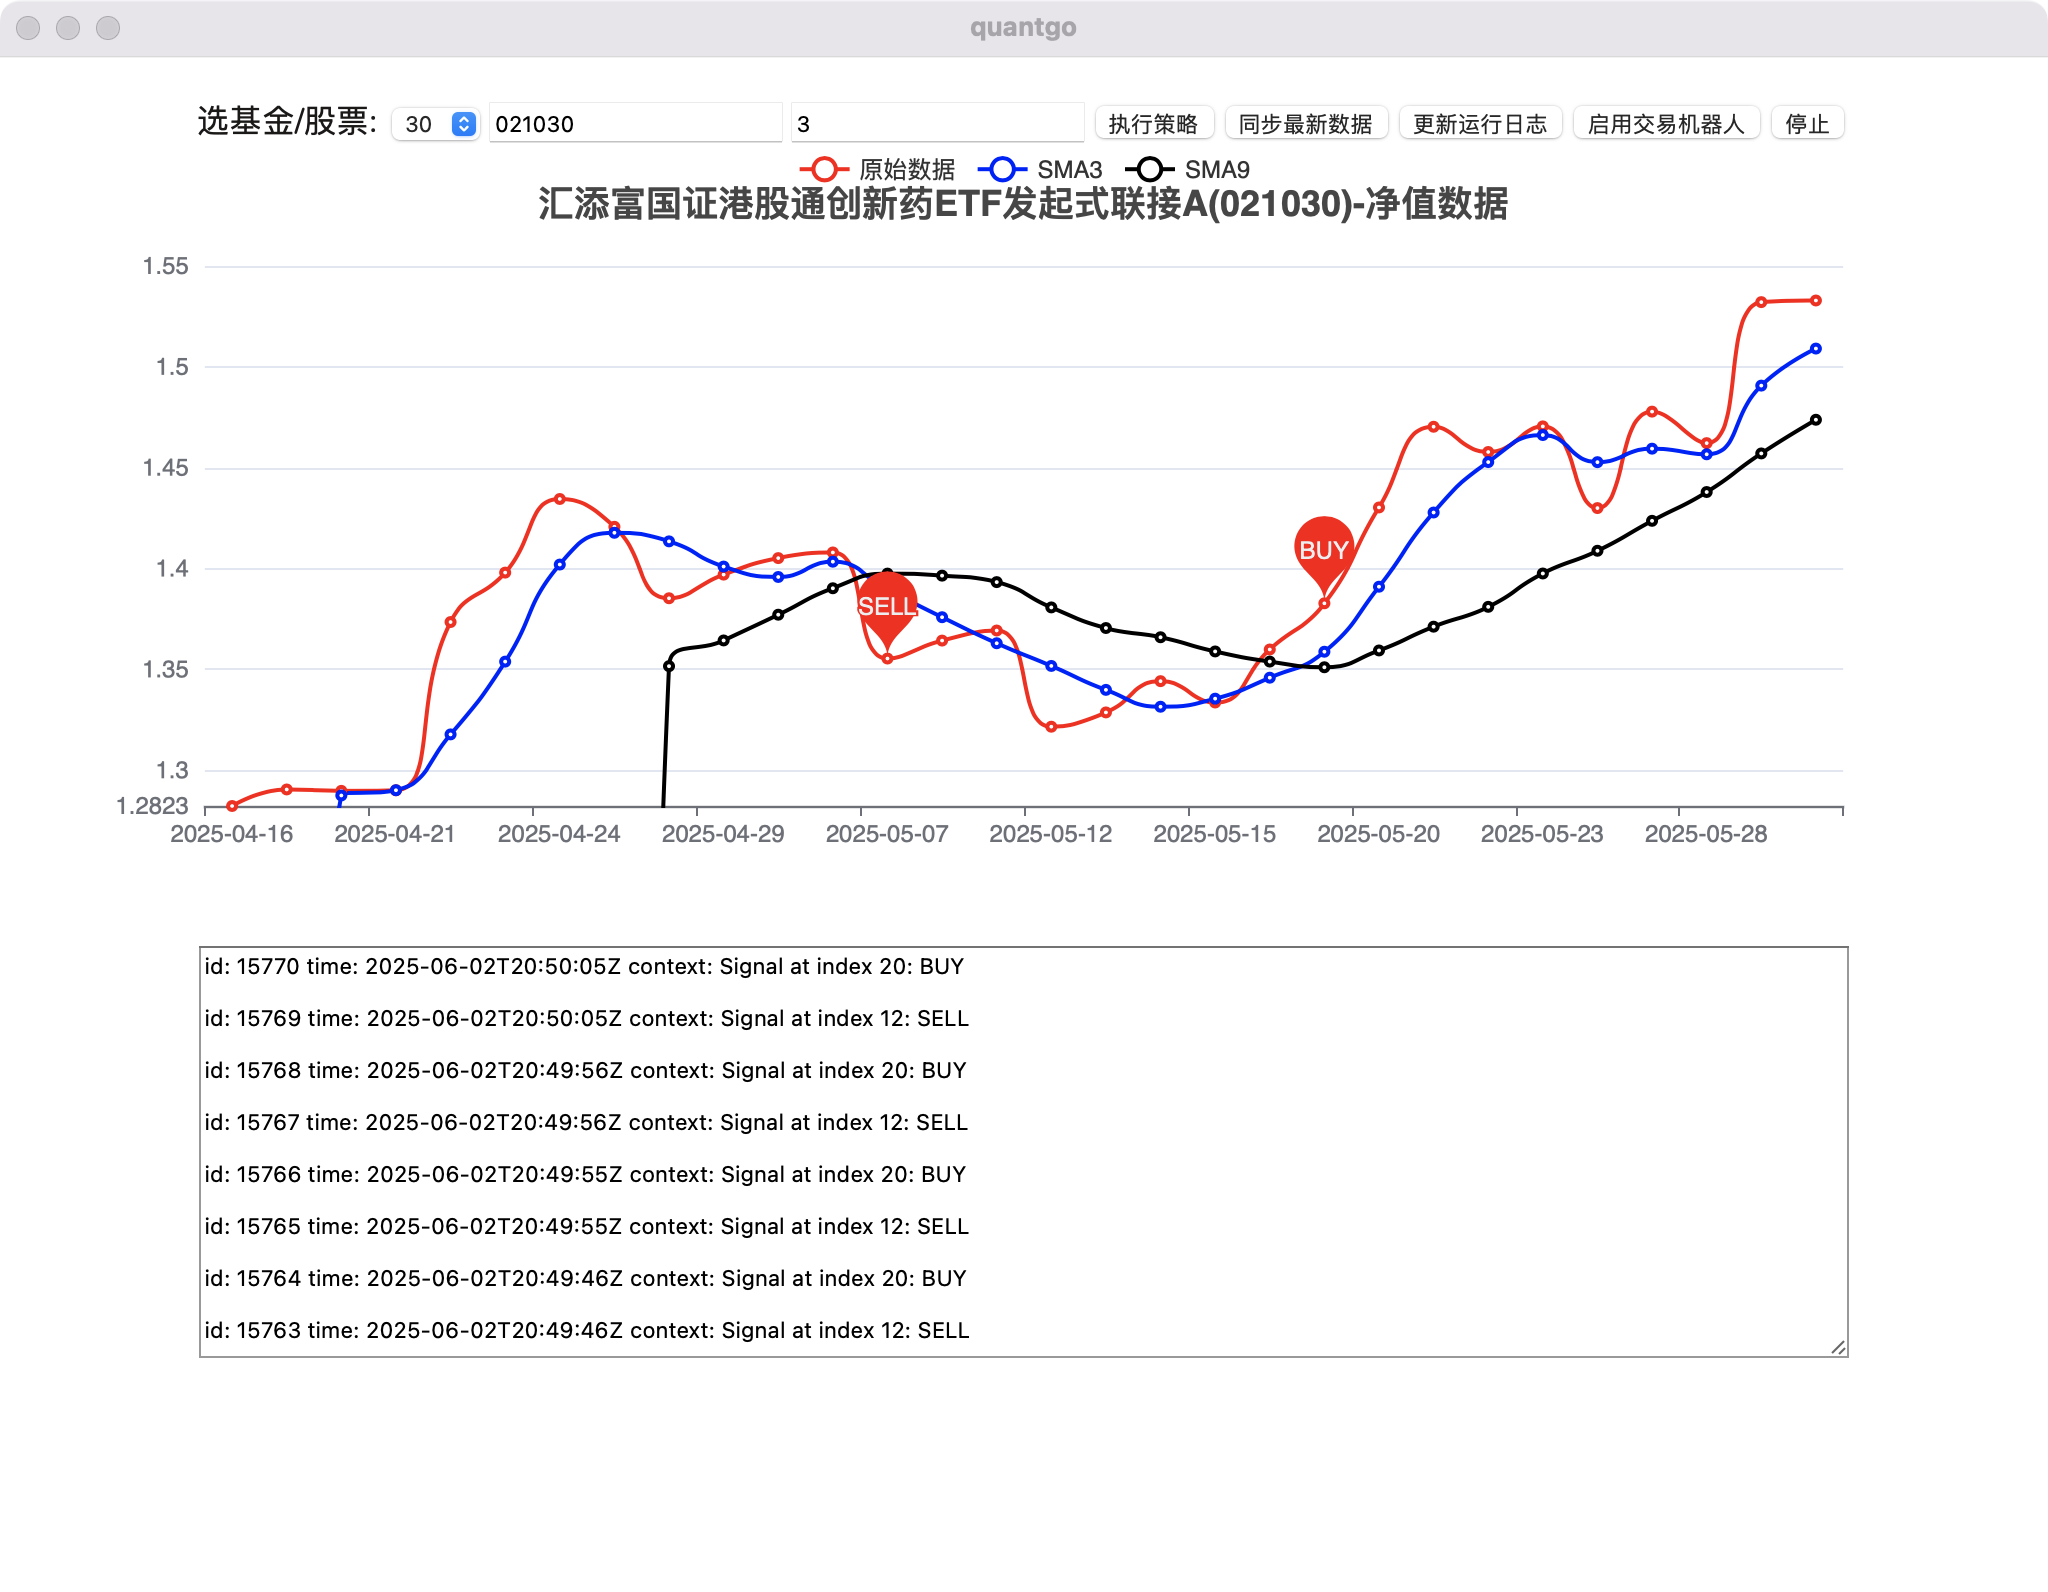
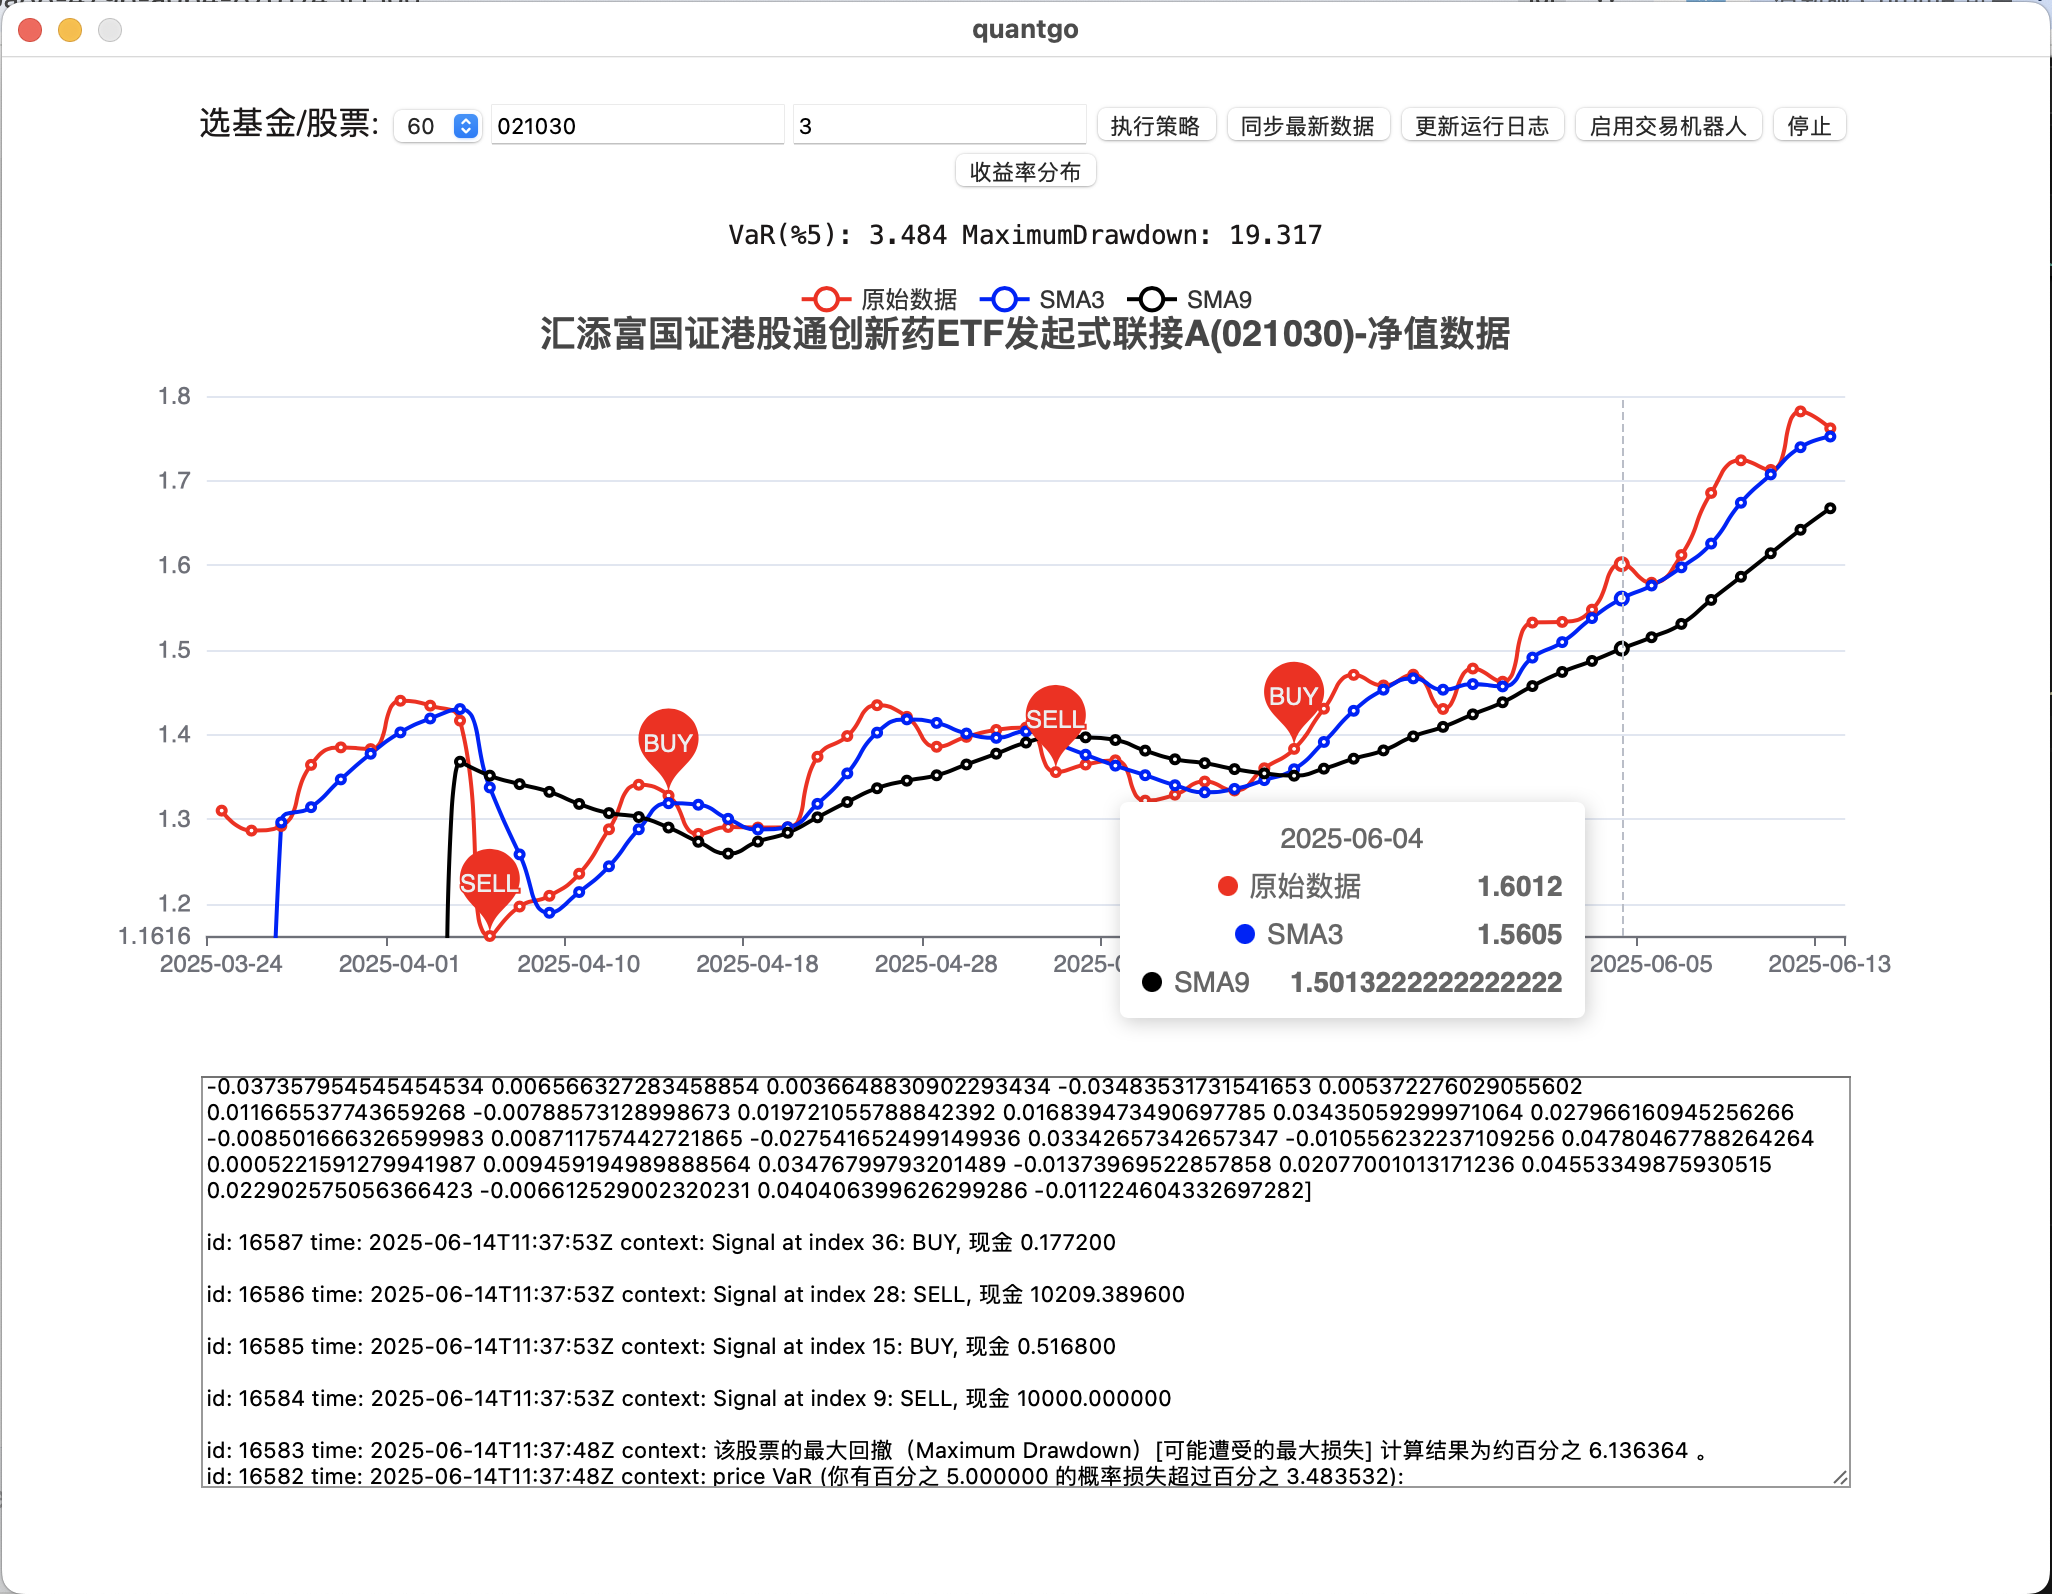
back test

diff --git a/frontend/src/components/QuantGoConsole.vue b/frontend/src/components/QuantGoConsole.vue
@@ -17,6 +17,7 @@
     <button class="btn" @click="stopAgentBot">停止</button>
     <br/>
     <button class="btn" @click="seeReturnRateDistribution">收益率分布</button>
+    <pre id="indicators" style="white-space: pre-line;"></pre>
     <div id="chart" style="width: 100%; height: 400px;"></div>
     <textarea id="consoleLog" placeholder="运行日志" style="width: 80%; height: 200px;"></textarea>
   </div>
@@ -195,9 +196,9 @@ async function updateData() {
   }
 
   var priceVaR = await CalPricesVaR(fundData.map(row => row[0]).reverse(), 0.95)
-
   var priceDrawdown = await MaximumDrawdown(fundData.map(row => row[0]).reverse())
 
+  document.getElementById('indicators').textContent = 'VaR(%5): ' + priceVaR + '  MaximumDrawdown: ' + priceDrawdown;
 
   console.log(SimpleMovingAverage(fundData.map(row => row[0]).reverse(), smaWinValue));
   console.log(fundData.map(row => row[0]).reverse());

diff --git a/app.go b/app.go
@@ -395,6 +395,8 @@ func (a *App) MovingAverageCrossover(prices []float64, shortWindow, longWindow i
 	var signal string
 	fmt.Printf("%5s | %7s | %7s | %7s\n", "Index", "Price", "Short", "Long")
 	fmt.Println("---------------------------------------------")
+	cash := 10000.0
+	position := 0
 
 	for i := 0; i < len(prices); i++ {
 		if i < longWindow {
@@ -411,9 +413,14 @@ func (a *App) MovingAverageCrossover(prices []float64, shortWindow, longWindow i
 		if prevShort <= prevLong && currShort > currLong {
 			signal = "BUY"
 			sig.Label = "BUY"
+			shares := int(cash / prices[i])
+			position = shares
+			cash -= float64(shares) * prices[i] //  买入 shares 份
 		} else if prevShort >= prevLong && currShort < currLong {
 			signal = "SELL"
 			sig.Label = "SELL"
+			cash += float64(position) * prices[i] // 全部卖出
+			position = 0
 		} else {
 			signal = ""
 		}
@@ -423,7 +430,7 @@ func (a *App) MovingAverageCrossover(prices []float64, shortWindow, longWindow i
 			sig.Index = len(prices) - i - 1
 			signals_ = append(signals_, sig)
 			insertSQL := `INSERT INTO console_log (time, context) VALUES (?, ?)`
-			_, err := a.db.Exec(insertSQL, time.Now().Format("2006-01-02 15:04:05"), fmt.Sprintf("Signal at index %d: %s\n", i, signal))
+			_, err := a.db.Exec(insertSQL, time.Now().Format("2006-01-02 15:04:05"), fmt.Sprintf("Signal at index %d: %s, 现金 %f \n", i, signal, cash))
 			if err != nil {
 				log.Fatalf("Failed to insert data: %v", err)
 			}
@@ -469,7 +476,7 @@ func (a *App) CalPricesVaR(prices []float64, confidence_level float64) float64 {
 	if err != nil {
 		log.Fatalf("Failed to insert data: %v", err)
 	}
-	return VaR
+	return math.Round((VaR*100)*1000) / 1000
 }
 
 func (a *App) MaximumDrawdown(prices []float64) float64 {
@@ -489,12 +496,11 @@ func (a *App) MaximumDrawdown(prices []float64) float64 {
 	}
 
 	insertSQL := `INSERT INTO console_log (time, context) VALUES (?, ?)`
-	_, err := a.db.Exec(insertSQL, time.Now().Format("2006-01-02 15:04:05"), fmt.Sprintf("该股票的最大回撤（Maximum Drawdown）[可能遭受的最大损失比例] 计算结果为约百分之30 %f 。", maxDrawdown*100))
+	_, err := a.db.Exec(insertSQL, time.Now().Format("2006-01-02 15:04:05"), fmt.Sprintf("该股票的最大回撤（Maximum Drawdown）[可能遭受的最大损失] 计算结果为约百分之 %f 。", maxDrawdown*100))
 	if err != nil {
 		log.Fatalf("Failed to insert data: %v", err)
 	}
-
-	return maxDrawdown * 100
+	return math.Round((maxDrawdown*100)*1000) / 1000
 }
 
 type Point struct {
